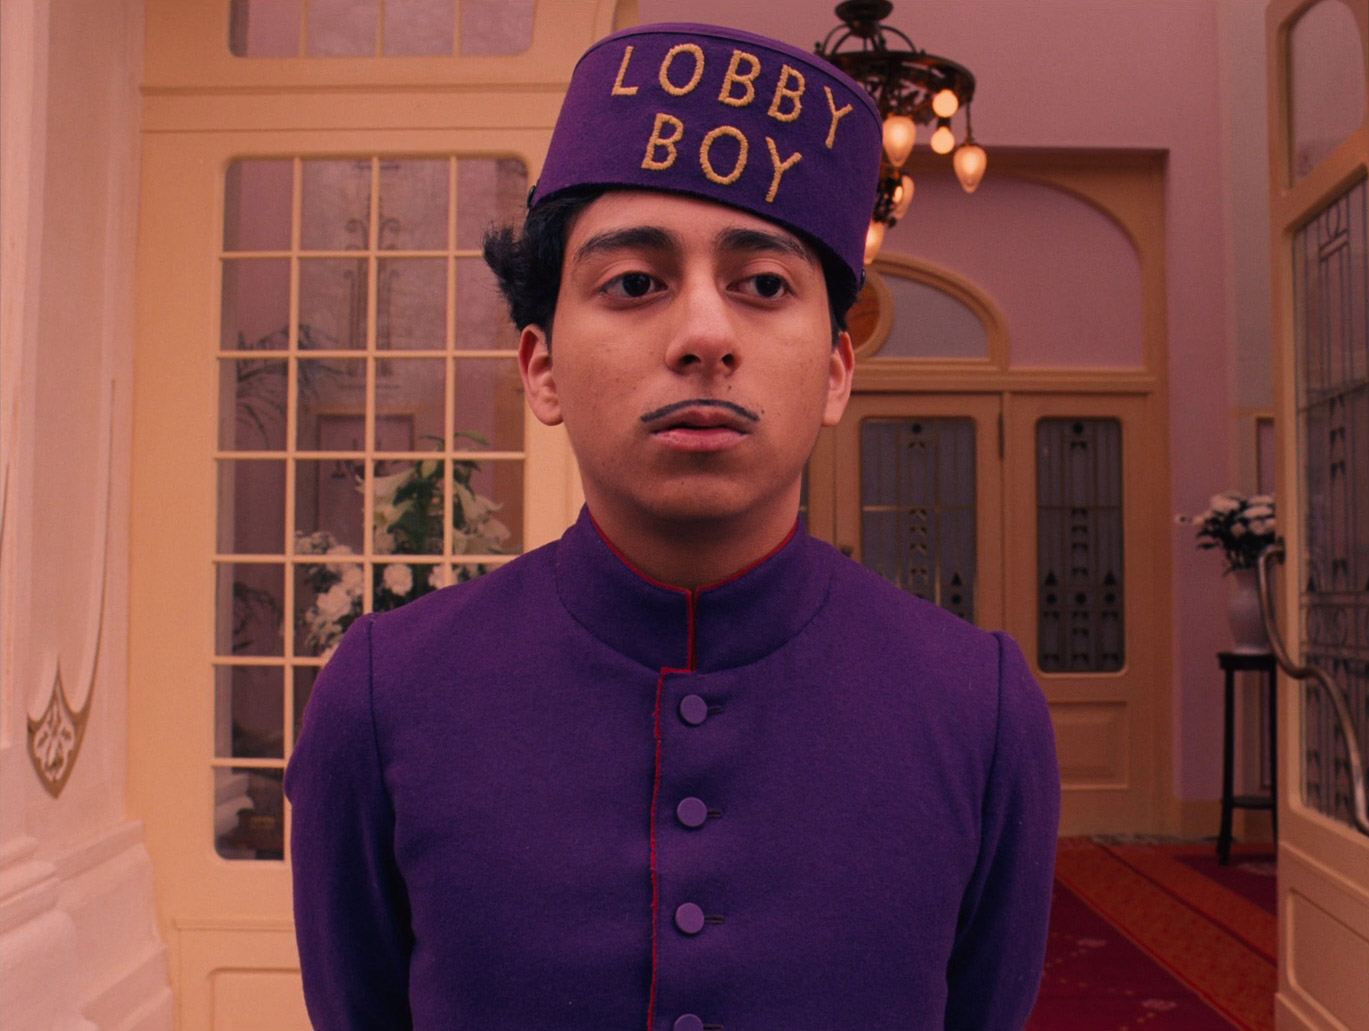
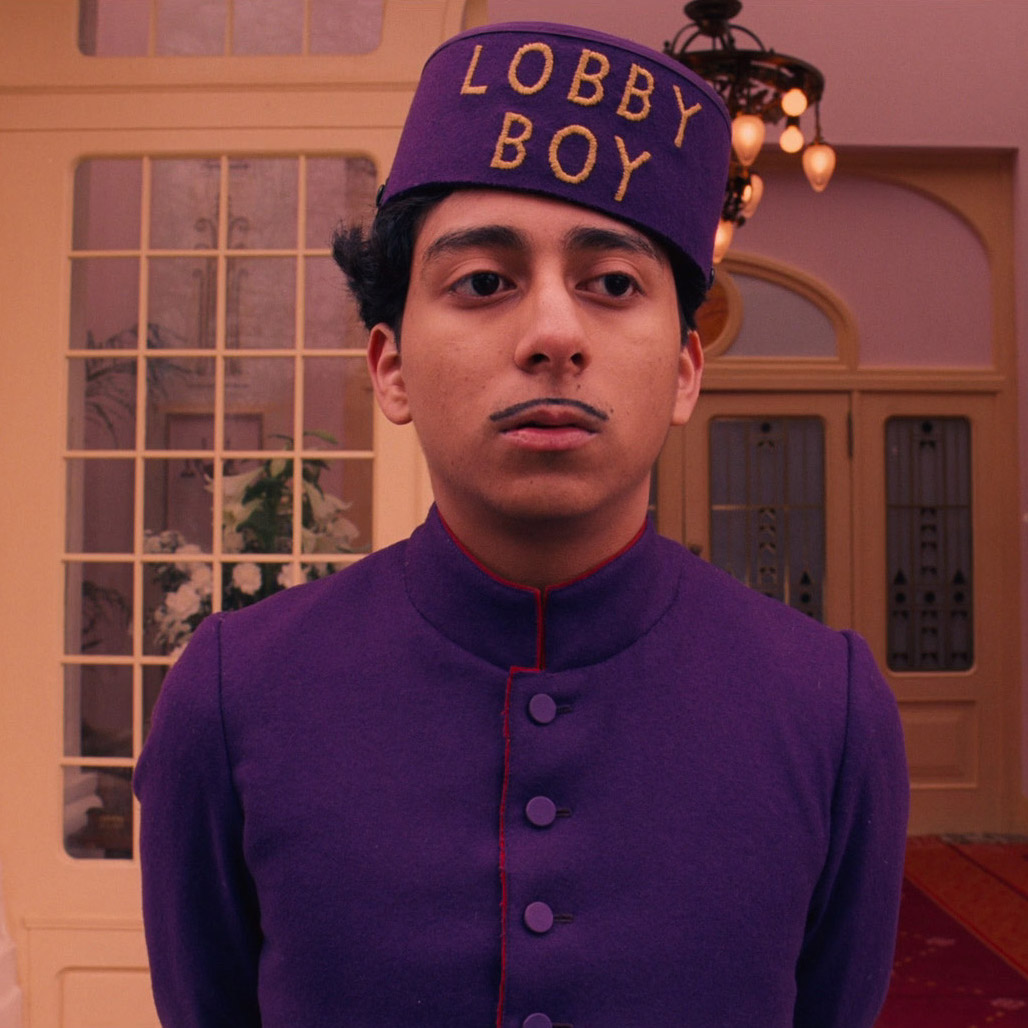
character images & homepage hover

diff --git a/wes-website/style.css b/wes-website/style.css
@@ -47,13 +47,18 @@ a {
 
 .moonrise-h1-home:hover {
     color: #EDFF18;
-    background: #88B0C1;
     font-family: fenway-park-jf, sans-serif;
     font-weight: 400;
     font-style: normal;
     text-transform: capitalize;
     -webkit-text-stroke: #EDFF18;  
 }
+
+.moonrise-bg {
+    background: #88b0c1;
+    transition: 1s;
+    transition-timing-function: ease-in-out;
+  }
 
 .budapest-h1-home {
     font-family: henderson-slab-basic, serif;
@@ -71,8 +76,13 @@ a {
     font-style: normal;
     -webkit-text-stroke: #FF9CCC;
     font-size: 30pt;
-    background: #6A446C;
 }
+
+.budapest-bg {
+    background: #6a446c;
+    transition: 1s;
+    transition-timing-function: ease-in-out;
+  }
 
 .isle-h1-home {
     font-family: ibm-plex-mono, sans-serif;
@@ -91,8 +101,13 @@ a {
     -webkit-text-stroke: #D44222;
     text-transform: capitalize;
     font-size: 30pt;
-    background-color: #343434;
 }
+
+.isle-bg {
+    background: #343434;
+    transition: 1s;
+    transition-timing-function: ease-in-out;
+  }
 
 .dispatch-h1-home {
     font-family: interstate, sans-serif;
@@ -109,8 +124,13 @@ a {
     font-weight: 700;
     font-style: normal;
     -webkit-text-stroke: #00DFFE;
-    background: #9D9F6A;
 }
+
+.dispatch-bg {
+    background: #9d9f6a;
+    transition: 1s;
+    transition-timing-function: ease-in-out;
+  }
 
 
 
@@ -323,7 +343,7 @@ p {
 .cast-image {
     border-radius: 50%;
     width: 200px;
-    padding-bottom: 30px;
+    
 }
 
 .cast{
@@ -839,14 +859,14 @@ footer {
 }
 
 .dispatch-header {
-    background-image: url(wes-header-images/dispatch-header.webp);
+    background-image: url(wes-header-images/dispatch-header.png);
     background-repeat: no-repeat;
     background-size: cover;
-    height: 800px;
+    height: 100%;
 }
 
 .dispatch-header-text {
-    padding-top: 250px;
+    padding-top: 220px;
 }
 
 .dispatch-h1 {

diff --git a/wes-website/moonrise.html b/wes-website/moonrise.html
@@ -49,7 +49,7 @@
         </div>
     <section class="cast">
         <div>
-            <img class="cast-image" src="character-images/moonrise-sam.webp" alt="sam">
+            <img class="cast-image" src="character-images/moonrise-sam.png" alt="sam">
             <h6 class="moonrise-h6">Sam</h6>
             <h5 class="moonrise-h5">Jared Gilman</h5>
         </div>
@@ -59,12 +59,12 @@
             <h5 class="moonrise-h5">Kara Hayward</h5>
          </div>
         <div>
-            <img class="cast-image" src="character-images/moonrise-ward.webp" alt="ward">
+            <img class="cast-image" src="character-images/moonrise-ward.png" alt="ward">
             <h6 class="moonrise-h6">Scout Master Ward</h6>
             <h5 class="moonrise-h5">Edward Norton</h5>
         </div>
         <div>
-            <img class="cast-image" src="character-images/moonrise-sharp.webp" alt="sharp">
+            <img class="cast-image" src="character-images/moonrise-sharp.png" alt="sharp">
             <h6 class="moonrise-h6">Captain Sharp</h6>
             <h5 class="moonrise-h5">Bruce Willis</h5>
         </div>

diff --git a/wes-website/index.html b/wes-website/index.html
@@ -27,5 +27,26 @@
             <h1 class="dispatch-h1-home"> The French dispatch </h1>
         </a>
     </div>
+    <script src="https://code.jquery.com/jquery-3.6.1.min.js" integrity="sha256-o88AwQnZB+VDvE9tvIXrMQaPlFFSUTR+nldQm1LuPXQ=" crossorigin="anonymous"></script>
+    <script>
+        $('.budapest-h1-home').hover(function () {
+          //$('body').css('background', '#6A446C')
+          $('body').toggleClass('budapest-bg')
+        })
+        $('.dispatch-h1-home').hover(function () {
+          //$('body').css('background', '#6A446C')
+          $('body').toggleClass('dispatch-bg')
+        })
+        $('.isle-h1-home').hover(function () {
+          //$('body').css('background', '#6A446C')
+          $('body').toggleClass('isle-bg')
+        })
+        $('.moonrise-h1-home').hover(function () {
+          //$('body').css('background', '#6A446C')
+          $('body').toggleClass('moonrise-bg')
+        })
+  
+        //#6A446C
+      </script>
 </body>
 </html>

diff --git a/wes-website/dispatch.html b/wes-website/dispatch.html
@@ -66,7 +66,7 @@
             <h5 class="dispatch-h5">Tilda Swinton</h5>
         </div>
         <div>
-            <img class="cast-image" src="character-images/dispatch-timothee.webp" alt="timmy">
+            <img class="cast-image" src="character-images/dispatch-timothee.png" alt="timmy">
             <h6 class="dispatch-h6">Zeffirelli</h6>
             <h5 class="dispatch-h5">Timothée Chalamet</h5>
         </div>

diff --git a/wes-website/budapest.html b/wes-website/budapest.html
@@ -62,7 +62,7 @@
             <h5 class="budapest-h5">Tony Revolori</h5>
          </div>
         <div>
-            <img class="cast-image" src="character-images/budapest-agatha.webp" alt="agatha">
+            <img class="cast-image" src="character-images/budapest-agatha.png" alt="agatha">
             <h6 class="budapest-h6">Agatha</h6>
             <h5 class="budapest-h5">Saoirse Ronan</h5>
         </div>

diff --git a/wes-website/isle.html b/wes-website/isle.html
@@ -66,7 +66,7 @@
             <h5 class="isle-h5">Edward Norton</h5>
         </div>
         <div>
-            <img class="cast-image" src="character-images/isle-tracy.webp" alt="tracy">
+            <img class="cast-image" src="character-images/isle-tracy.png" alt="tracy">
             <h6 class="isle-h6">Tracy</h6>
             <h5 class="isle-h5">Greta Gerwig</h5>
         </div>
